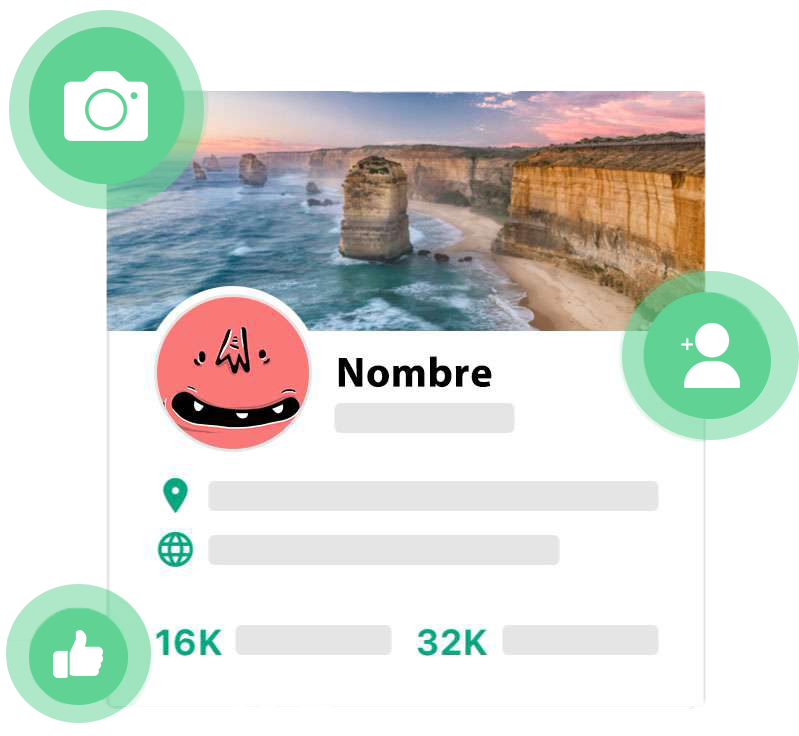
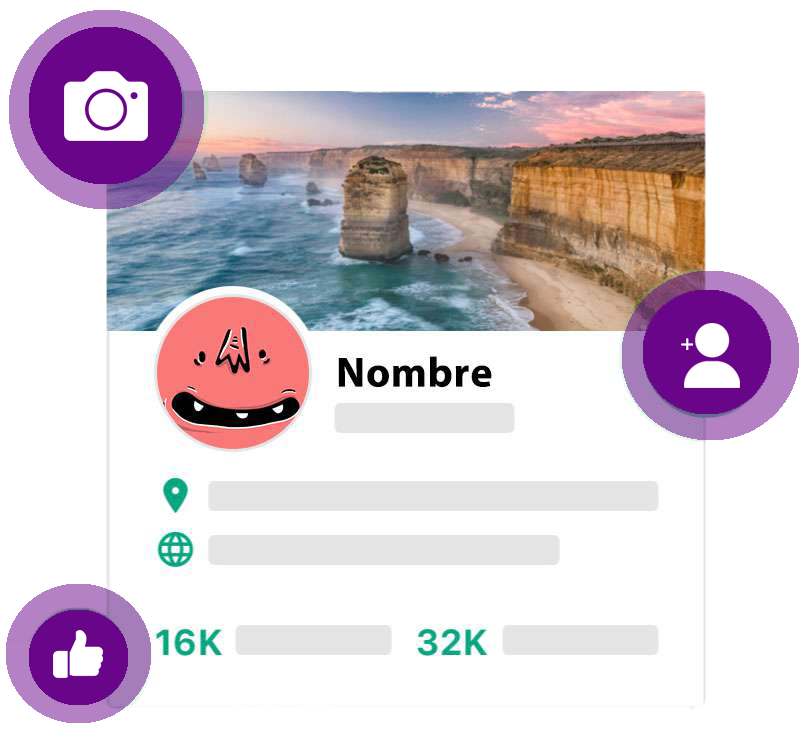
change color primary

Changed region(s): [[0.0, 0.0, 0.2703, 0.2812], [0.781, 0.3438, 1.0, 0.625], [0.0, 0.7812, 0.2103, 1.0]]

diff --git a/app/components/Account/RegisterForm.js b/app/components/Account/RegisterForm.js
@@ -1,30 +1,45 @@
 import React, { useState } from "react";
 import { StyleSheet, View } from "react-native";
 import { Input, Icon, Button } from "react-native-elements";
-import {size, isEmpty} from 'lodash'
-import {validateEmail} from '../../utils/validations'
+import { size, isEmpty } from "lodash";
+import { validateEmail } from "../../utils/validations";
+import * as firebase from 'firebase'
 
-const RegisterForm = () => {
+
+const RegisterForm = (props) => {
+  const { toastRef } = props;
   const [showPassword, setShowPassword] = useState(false);
   const [showPasswordRepeat, setShowPasswordRepeat] = useState(false);
-  const [formData, setFormData] = useState(defaultFormValue())
-  
-  const onSubmit = ()=>{
-    if(isEmpty(formData.email) || isEmpty(formData.password) || isEmpty(formData.repeatPassword)){
-      console.log('todos los campos son obligatorios')
-    }else{
-      if(validateEmail(formData.email)){
-        console.log('el email no es valido')
-      }else{
-        
-      }
-    }
-  }
+  const [formData, setFormData] = useState(defaultFormValue());
 
-  const onChange = (e,type)=>{
-    setFormData({...formData, [type]:e.nativeEvent.text})
-  }
-  
+  const onSubmit = () => {
+    if (
+      isEmpty(formData.email) ||
+      isEmpty(formData.password) ||
+      isEmpty(formData.repeatPassword)
+    ) {
+      toastRef.current.show("todos los campos son obligatorios")
+    } else if (!validateEmail(formData.email)) {
+      toastRef.current.show("Email no valido")
+    } else if (formData.password !== formData.repeatPassword) {
+      toastRef.current.show("La contraseña no coinciden");
+    } else if (size(formData.password) < 6) {
+      toastRef.current.show("la contraseña debe tener mas de 6 caracteres");
+    } else {
+       firebase.auth().createUserWithEmailAndPassword(formData.email,formData.password)
+       .then(response => {
+         console.log(response)
+       })
+       .catch(err => {
+        toastRef.current.show("Error al Regitrate, ntentalo de nuevo")
+       })
+    }
+  };
+
+  const onChange = (e, type) => {
+    setFormData({ ...formData, [type]: e.nativeEvent.text });
+  };
+
   return (
     <View style={styles.formContainer}>
       <Input
@@ -85,12 +100,12 @@ const RegisterForm = () => {
 
 export default RegisterForm;
 
-function defaultFormValue(){
-  return{
+function defaultFormValue() {
+  return {
     email: "",
     password: "",
-    repeatPassword:""
-  }
+    repeatPassword: "",
+  };
 }
 
 const styles = StyleSheet.create({
@@ -109,12 +124,13 @@ const styles = StyleSheet.create({
     width: "95%",
   },
   btnRegiter: {
-    backgroundColor: "#00a680",
+    marginTop:20,
+    backgroundColor: "#690589",
   },
   icon: {
     color: "#c1c1c1",
   },
   iconActive: {
-    color: "#00a680",
+    color: "#690589",
   },
 });

diff --git a/app/screens/Account/Register.js b/app/screens/Account/Register.js
@@ -1,9 +1,13 @@
-import React from 'react'
-import { StyleSheet, Text, View,Image } from 'react-native'
+import React,{useRef} from 'react'
+import { StyleSheet,View,Image } from 'react-native'
+import Toast from "react-native-easy-toast";
 import {KeyboardAwareScrollView}from 'react-native-keyboard-aware-scroll-view'
 import RegisterForm from '../../components/Account/RegisterForm'
 
 const Register = () => {
+
+  const toastRef = useRef();
+
   return (
     <KeyboardAwareScrollView>
       <Image
@@ -12,11 +16,14 @@ const Register = () => {
         style={styles.img}
       />
       <View style={styles.viewForm}>
-        <RegisterForm/>
+        <RegisterForm 
+          toastRef={toastRef}
+        />
       </View>
+      <Toast ref={toastRef} position="center" opacity={0.9} />
     </KeyboardAwareScrollView>
   )
-}
+} 
 
 export default Register
 

diff --git a/app/navigations/Navigation.js b/app/navigations/Navigation.js
@@ -1,7 +1,6 @@
 import React from "react";
 import { NavigationContainer } from "@react-navigation/native";
 import { createBottomTabNavigator } from "@react-navigation/bottom-tabs";
-import { StyleSheet, Text, View } from "react-native";
 import { Icon } from "react-native-elements";
 import RestaurantsStack from "../navigations/RestaurantsStack";
 import FavoriteStack from "../navigations/FavoriteStack";
@@ -18,7 +17,7 @@ const Navigation = () => {
         initialRouteName="Restaurants"
         tabBarOptions={{
           inactiveTintColor: "#646464",
-          activeTintColor: "#00a680",
+          activeTintColor: "#690589",
         }}
         screenOptions={({ route }) => ({
           tabBarIcon: ({ color }) => screenOptions(route, color),

diff --git a/app/screens/Account/UserGuest.js b/app/screens/Account/UserGuest.js
@@ -38,7 +38,7 @@ const styles = StyleSheet.create({
     marginRight: 30,
   },
   image: {
-    height: 300,
+    height: 280,
     width: "100%",
     marginBottom: 40,
   },
@@ -52,14 +52,15 @@ const styles = StyleSheet.create({
     textAlign: "center",
     marginBottom: 20,
   },
-  viewBtn:{
-    flex:1,
-    alignItems:"center"
+  viewBtn: {
+    flex: 1,
+    alignItems: "center",
   },
   BtnStyle: {
-    backgroundColor: "#00a680",
+    backgroundColor: "#690589",
   },
-  BtnContainer:{
-    width:"80%"
+  BtnContainer: {
+    width: "80%",
+   
   },
 });

diff --git a/app/components/Loading.js b/app/components/Loading.js
@@ -26,7 +26,7 @@ const styles = StyleSheet.create({
     height: 100,
     width: 200,
     backgroundColor: "#fff",
-    borderColor: "#00a680",
+    borderColor: "#690589",
     borderWidth: 2,
     borderRadius: 10,
   },
@@ -36,7 +36,7 @@ const styles = StyleSheet.create({
     justifyContent: "center",
   },
   text: {
-    color: "#00a680",
+    color: "#690589",
     textTransform: "uppercase",
     marginTop: 10,
   },

diff --git a/app/screens/Account/Login.js b/app/screens/Account/Login.js
@@ -53,11 +53,11 @@ const styles = StyleSheet.create({
     marginRight: 10,
   },
   btnRegister: {
-    color: "#00a680",
+    color: "#690589",
     fontWeight: "bold",
   },
-  divider:{
-    backgroundColor:"#00a680",
-    margin:40
-  }
+  divider: {
+    backgroundColor: "#690589",
+    margin: 40,
+  },
 });
